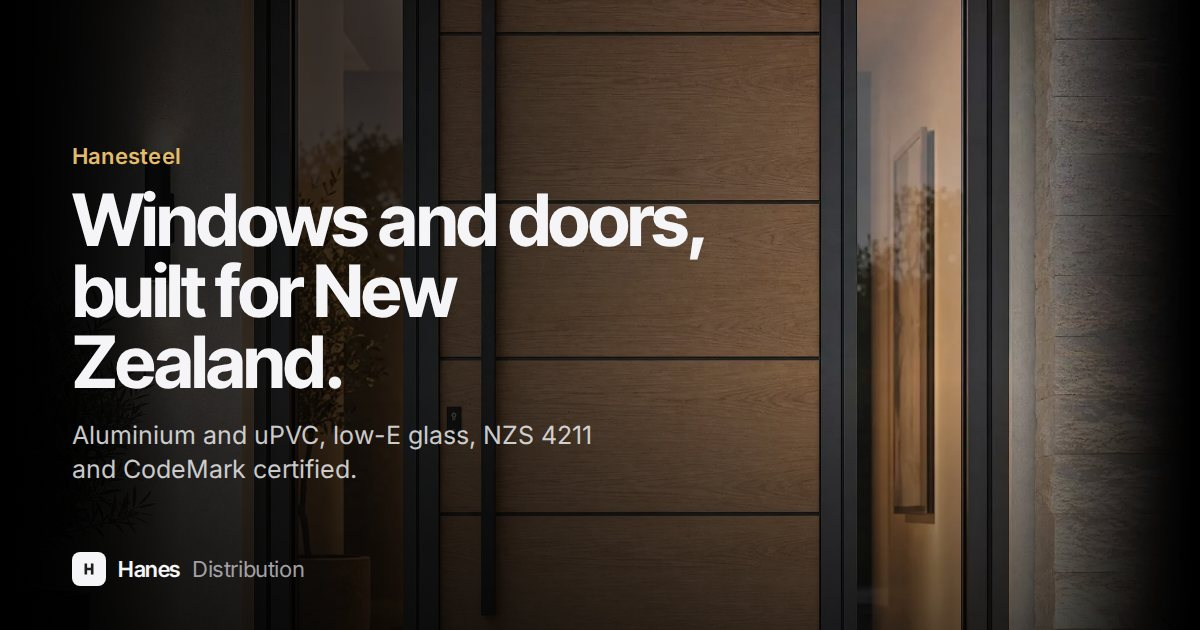
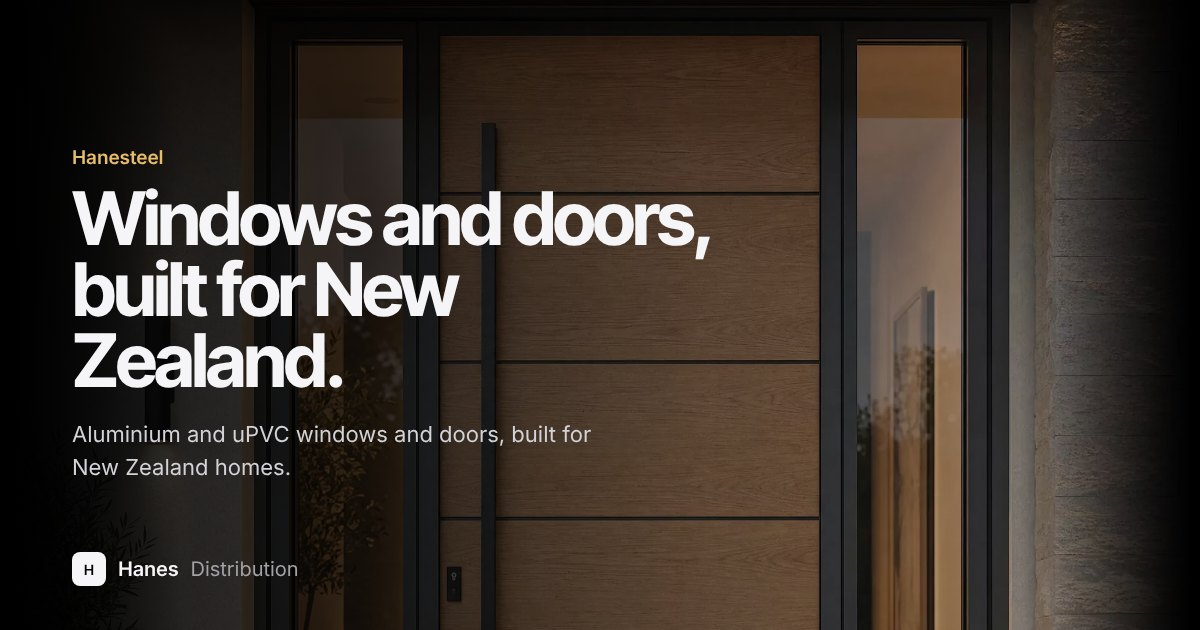
Sharing cards: Hanesteel and Hanestone without the claims baked in
og/hanesteel.jpg said "NZS 4211 and CodeMark certified" and og/hanestone.jpg
"An MBIE-recognised substitute for GIB plasterboard", so every link preview
showed a never-say claim. Both are re-rendered locally from the site's own
photos and fonts (scripts/og/card.html, scripts/og-cards.mjs, Chromium), in
the same layout and size:
- Hanesteel: "Aluminium and uPVC windows and doors, built for New Zealand
  homes."
- Hanestone: "Gypsum plasterboard for walls and ceilings, in bulk for
  retailers and merchants."
og/cards.json holds each card's exact text and sha256. tests/og.test.mjs
scans the text with the SEO-H0 never-say list (now shared from
tests/_never-say.mjs with milli.test.mjs) and pins each image to its hash.

Claude-Session: https://claude.ai/code/session_018KH29sMak4ss6XvYxMSpA1

diff --git a/scripts/og/card.html b/scripts/og/card.html
@@ -1,0 +1,30 @@
+<!doctype html>
+<!-- The 1200 x 630 sharing card (og:image, twitter:image), rendered by scripts/og-cards.mjs from
+     og/cards.json. Only the site's own photo and fonts; nothing is generated. -->
+<html lang="en-NZ">
+<meta charset="utf-8">
+<style>
+@font-face{font-family:"Inter Tight";font-weight:700;src:url(../../fonts/inter-tight-latin-700-normal.woff2) format("woff2")}
+@font-face{font-family:"Inter";font-weight:400;src:url(../../fonts/inter-latin-400-normal.woff2) format("woff2")}
+@font-face{font-family:"Inter";font-weight:500;src:url(../../fonts/inter-latin-500-normal.woff2) format("woff2")}
+@font-face{font-family:"Inter";font-weight:600;src:url(../../fonts/inter-latin-600-normal.woff2) format("woff2")}
+html,body{margin:0;width:1200px;height:630px;overflow:hidden;background:#000}
+.card{position:relative;width:1200px;height:630px;overflow:hidden;font-family:"Inter",sans-serif;-webkit-font-smoothing:antialiased}
+.bg{position:absolute;inset:0;width:100%;height:100%;object-fit:cover}
+.shade{position:absolute;inset:0;background:linear-gradient(90deg,rgba(0,0,0,.86) 0%,rgba(0,0,0,.74) 30%,rgba(0,0,0,.42) 58%,rgba(0,0,0,.12) 100%)}
+.text{position:absolute;left:72px;top:0;bottom:0;width:700px;display:flex;flex-direction:column;justify-content:center}
+.eyebrow{margin:0 0 14px;font-weight:600;font-size:19px;letter-spacing:-.005em;color:#e8bd6a}
+h1{margin:0;max-width:640px;font-family:"Inter Tight",sans-serif;font-weight:700;font-size:74px;line-height:.96;letter-spacing:-.045em;color:#f5f5f7}
+.sub{margin:22px 0 0;max-width:560px;font-weight:400;font-size:22px;line-height:1.5;color:#d2d2d7}
+.brand{position:absolute;left:72px;bottom:44px;display:flex;align-items:center;gap:12px;font-size:20px}
+.mark{display:grid;place-items:center;width:34px;height:34px;border-radius:8px;background:#f5f5f7;color:#000;font-family:"Inter",sans-serif;font-weight:600;font-size:14px}
+.brand b{font-weight:600;color:#f5f5f7;letter-spacing:-.01em}
+.brand .dist{color:#a1a1a6}
+</style>
+<div class="card">
+  <img class="bg" id="bg" alt="">
+  <div class="shade"></div>
+  <div class="text"><p class="eyebrow" id="eyebrow"></p><h1 id="title"></h1><p class="sub" id="sub"></p></div>
+  <div class="brand"><span class="mark">H</span><b>Hanes</b><span class="dist">Distribution</span></div>
+</div>
+</html>
